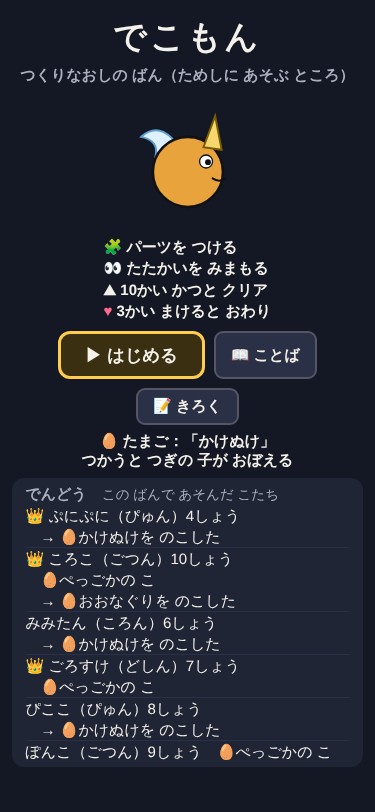
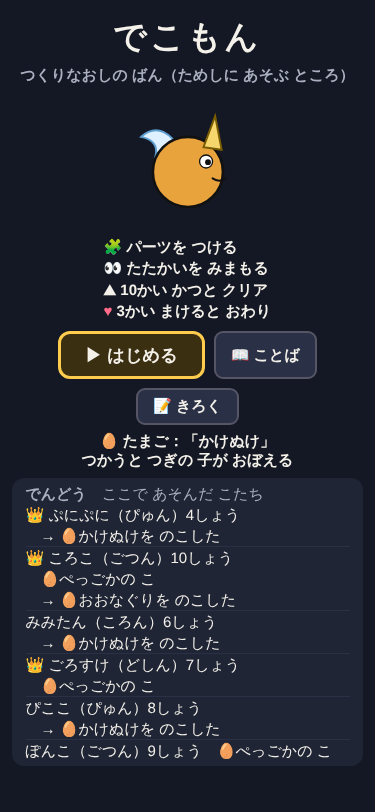
確認役の 直した方がいい：「ここで あそんだ こたち」・1rem・ひとかたまりで 折り返す
Claude-Session: https://claude.ai/code/session_01MmzYoTSQcDuWuNVTooH1KY

diff --git a/remake/index.html b/remake/index.html
@@ -172,7 +172,7 @@ body[data-scr="title"] #tip { display:none; } /* タイトルには カードも
 .hall { max-width: 40rem; margin:.5rem auto; text-align:left; font-size:1rem; line-height:1.4; color:var(--ink); background:var(--panel); border-radius:12px; padding:.35rem .9rem; }
 .hall:empty { display:none; }
 .hall b { color:var(--dim); display:block; }
-.hall .hsub { font-weight:normal; font-size:.9rem; }
+.hall .hsub { font-weight:normal; display:inline-block; white-space:nowrap; }
 .hall .hseg { white-space:nowrap; display:inline-block; }
 .hall .hrow + .hrow { border-top:1px solid var(--panel2); }
 @media (max-width: 700px) {
@@ -551,7 +551,7 @@ body[data-scr="title"] #tip { display:none; } /* タイトルには カードも
     $('howto').innerHTML = ['🧩 パーツを つける', '👀 たたかいを みまもる', '⛰ ' + C.runBattles + 'かい かつと クリア', '<b style="color:var(--heart)">♥</b> ' + C.hearts + 'かい まけると おわり'].map(function (t) { return '<span>' + t + '</span>'; }).join('');
     $('bCont').style.display = G.run ? '' : 'none';
     var h = lsGet('hall', []).filter(function (x) { return !(G.run && G.last && G.run.hallAt && x.at === G.run.hallAt); }); // さいごの 戦いを まだ 見て いない 周回は 見る まで 出さない（けっかを 先に 知らせない）
-    $('hall').innerHTML = h.length ? '<b>でんどう　<span class="hsub">この ばんで あそんだ こたち</span></b>' + h.slice(-6).reverse().map(function (x) { return '<div class="hrow"><span class="hseg">' + (x.clear ? '👑 ' : '') + x.name + '（' + x.sp + '）' + x.wins + 'しょう</span>' + (x.from ? '<span class="hseg">　🥚' + x.from + 'の こ</span>' : '') + (x.egg && S.WAZA_BY_ID[x.egg] ? '<span class="hseg">　→ 🥚' + S.WAZA_BY_ID[x.egg].name + 'を のこした</span>' : '') + '</div>'; }).join('') : ''; // 1人 1行（スマホで 折り返す ときは 🥚 の ところで まるごと 次の 行へ）
+    $('hall').innerHTML = h.length ? '<b>でんどう　<span class="hsub">ここで あそんだ こたち</span></b>' + h.slice(-6).reverse().map(function (x) { return '<div class="hrow"><span class="hseg">' + (x.clear ? '👑 ' : '') + x.name + '（' + x.sp + '）' + x.wins + 'しょう</span>' + (x.from ? '<span class="hseg">　🥚' + x.from + 'の こ</span>' : '') + (x.egg && S.WAZA_BY_ID[x.egg] ? '<span class="hseg">　→ 🥚' + S.WAZA_BY_ID[x.egg].name + 'を のこした</span>' : '') + '</div>'; }).join('') : ''; // 1人 1行（スマホで 折り返す ときは 🥚 の ところで まるごと 次の 行へ）
     var en = eggNow(); $('eggNote').innerHTML = en ? '🥚 たまご：「' + S.WAZA_BY_ID[en.waza].name + '」　<span style="display:inline-block">つかうと つぎの 子が おぼえる</span>' : ''; // 見えなければ 無いのと 同じ（原則 2）。くわしくは 種類を 選ぶ 画面の 帯（タイトルは 説明の 帯が ない ので 札に しない）
     show('title');
   }

diff --git a/remake/REPORT.md b/remake/REPORT.md
@@ -4,7 +4,7 @@ URL：https://usouso.github.io/dekomon/remake/ （main に 入ると 1〜2分で
 設計書：https://claude.ai/artifact/GGMbMbeSY1gf7wLvytHtyb
 
 ## きょう 変わったこと（10-28 20時から）
-- （merge 待ち）タイトルの 殿堂に ひとこと：「でんどう　この ばんで あそんだ こたち」（何の 表か 分かる ように。10-31 3時の回）
+- （merge 待ち）タイトルの 殿堂に ひとこと：「でんどう　ここで あそんだ こたち」（何の 表か 分かる ように。10-31 3時の回）
 - （merge 待ち）保存で とまった ときの 文を 理由ごとに：「ほぞんの とちゅうの メモ」が 古い 形・いまの 保存と 合わない ときは「まっても なおらない」（前は どれも「しばらく してから」）。とめる ことは 同じ
 - （merge 待ち）**📝 ためしあそびの きろく**（dot が 作った もの を 最新に 合わせた）：遊んだ 戦いが この きかいの 中だけに たまる（そとへは おくらない）。タイトルの「📝 きろく」で JSON に かきだせる。ゲームの ルール・保存には さわらない。`?kiroku=0` で とめられる
 - （merge 待ち）**するどいツメ（れんげき）が つよく なった**：2げきの 1げきが こうげきの 6わり → 7わり。こうげき 4 なら 2＋2＝4（1げきと 同じ）だったのが 3＋3＝6 に。つけた ときの 勝ちやすさが ほかの せめより −11 → −2 くらいに（10-30 11時の回）
